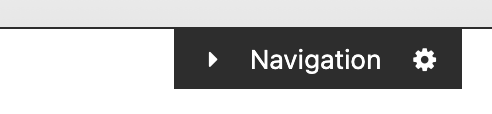
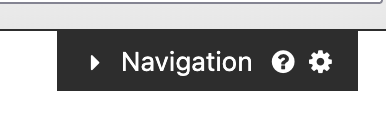
Bug 2002872 - Part 1: Document the navigation panel header items and the auto-collapse behavior. r=asuth
Differential Revision: https://phabricator.services.mozilla.com/D277688

Changed region(s): [[0.0, 0.2368, 1.0, 0.8158], [0.0, 0.0, 0.9948, 0.0526]]

diff --git a/docs/contributing/searchfox/navigation_panel.rst b/docs/contributing/searchfox/navigation_panel.rst
@@ -7,7 +7,7 @@ The navigation panel provides various features for the current file.
 .. image:: img/navigation-panel.png
     :class: border
     :alt: The navigation panel
-    :width: 319px
+    :width: 288px
 
 In the directory listing and some other cases, the navigation panel is collapsed by default.
 Clicking the triangle icon at the left end expands/collapses the navigation panel.
@@ -15,8 +15,33 @@ Clicking the triangle icon at the left end expands/collapses the navigation pane
 .. image:: img/navigation-panel-collapsed.png
     :class: border
     :alt: The navigation panel in a closed state
-    :width: 246px
+    :width: 193px
 
+If the window width is less than 1024px, the panle is collapsed by default also in the source listing.
+This behavior can be configured in the `settings page <https://searchfox.org/firefox-main/pages/settings.html>`_.
+
+Header
+------
+
+The navigation panel provides various features for the current file.
+
+.. image:: img/navigation-panel-header.png
+    :class: border
+    :alt: The navigation panel header
+    :width: 320px
+
+Toggle button
+  Expand/collapse the navigation panel.
+
+Help button
+  Open this documentation.
+
+Settings button
+  Open the `settings page <https://searchfox.org/firefox-main/pages/settings.html>`_.
+
+
+Enable keyboard shortcuts
+  Enable the keyboard shortcuts for the panel items.
 
 Source code
 -----------
